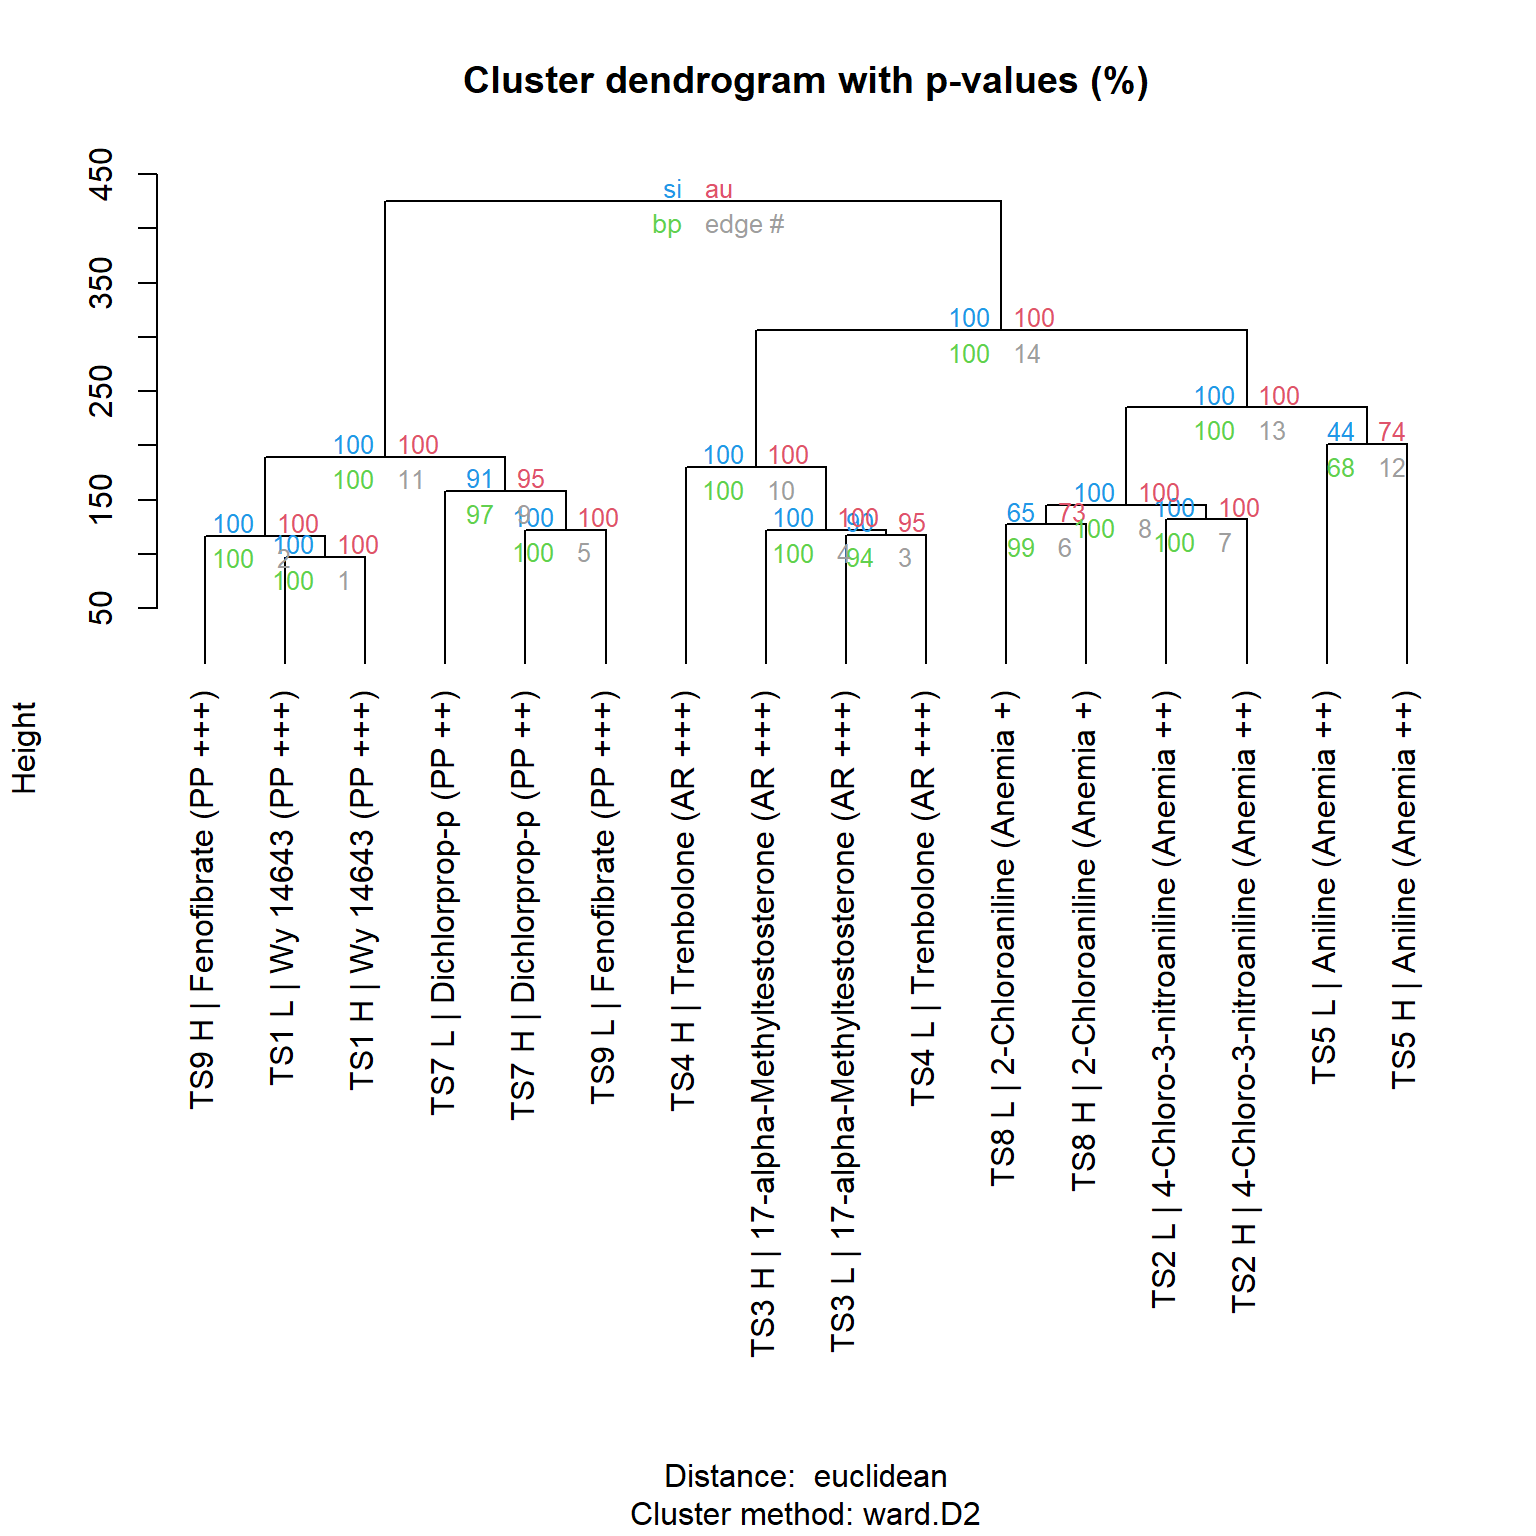
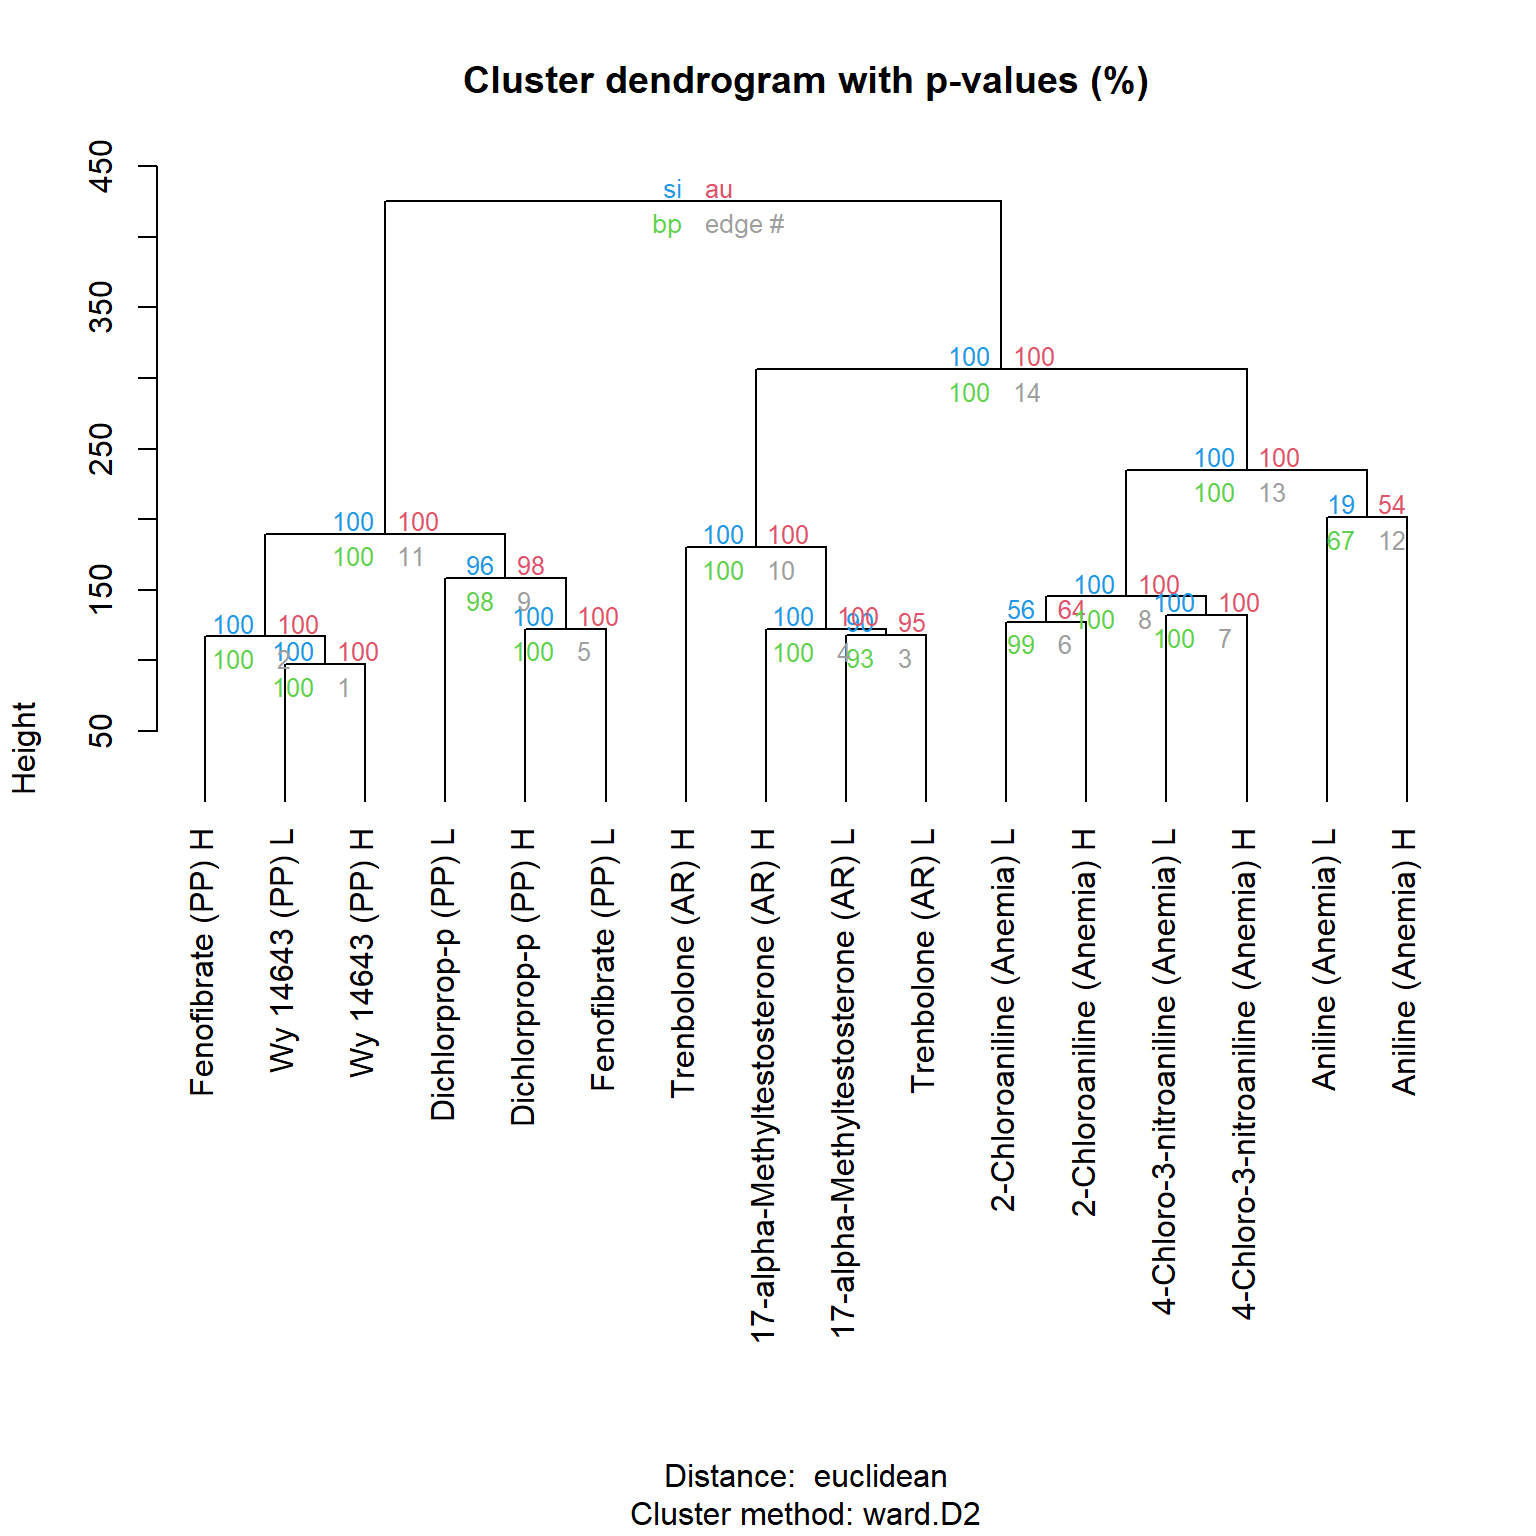
fix for unblinding

diff --git a/docs/5_grouping.html b/docs/5_grouping.html
@@ -506,7 +506,7 @@ alt="Cefic MATCHING unblinded - summary" />
 unblinded_names &lt;- read.csv(file.path(root, &#39;data/unblinded_ordered_names.csv&#39;), header = TRUE)
 pvclust_res_unblind &lt;- pvclust_res
 unblinded_names_sorted &lt;- unblinded_names[match(pvclust_res$hclust$labels, unblinded_names$test_substance_dose), ]  
-pvclust_res_unblind$hclust$labels &lt;- unblinded_names_sorted$full_label
+pvclust_res_unblind$hclust$labels &lt;- unblinded_names_sorted$compound_name_dose_moa
 plot(pvclust_res_unblind, c(&quot;si&quot;, &quot;au&quot;, &quot;bp&quot;), hang=-1)</code></pre>
 <p><img src="5_grouping_files/figure-html/HCA_unblind-1.png" width="768" /></p>
 </div>
